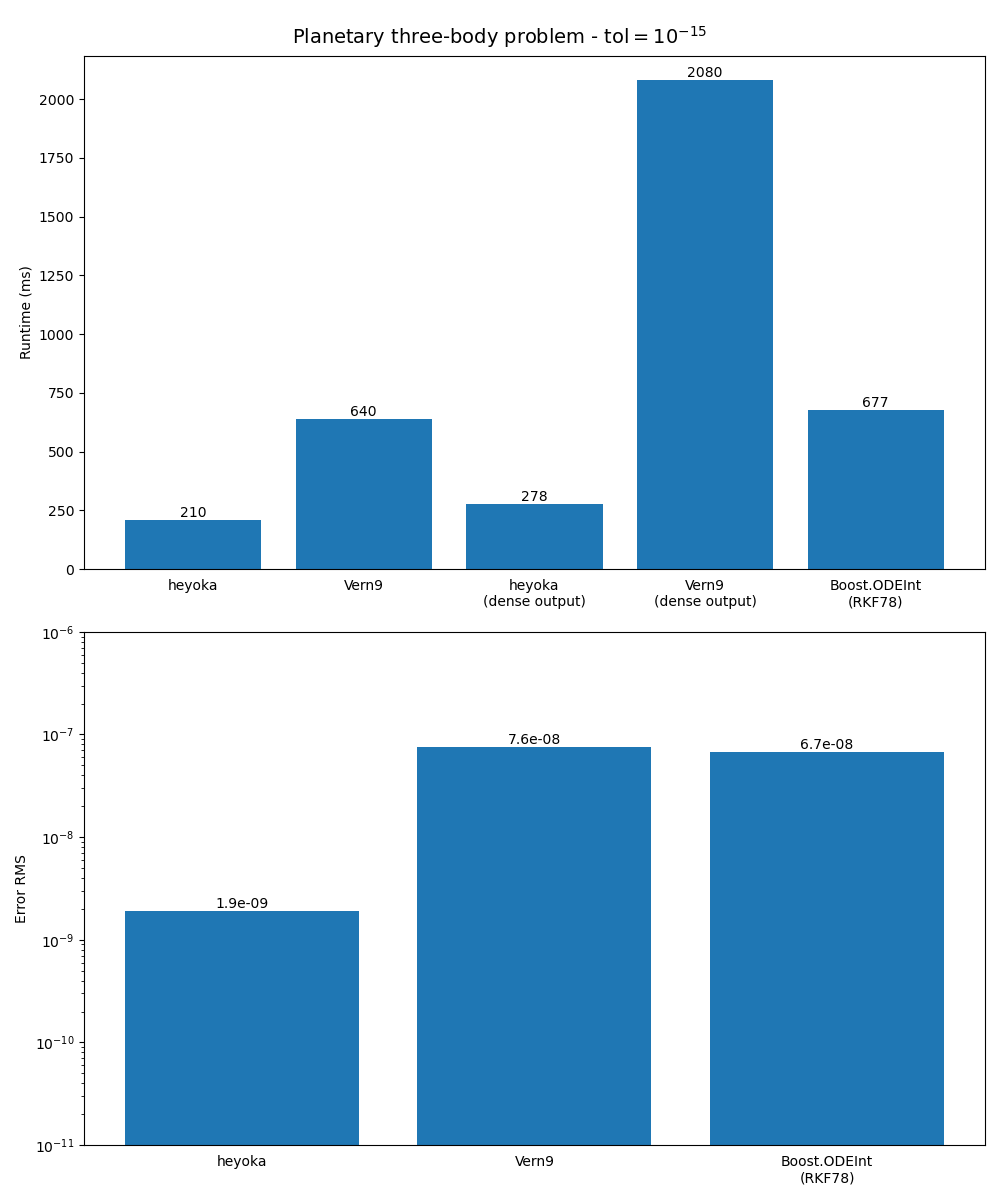
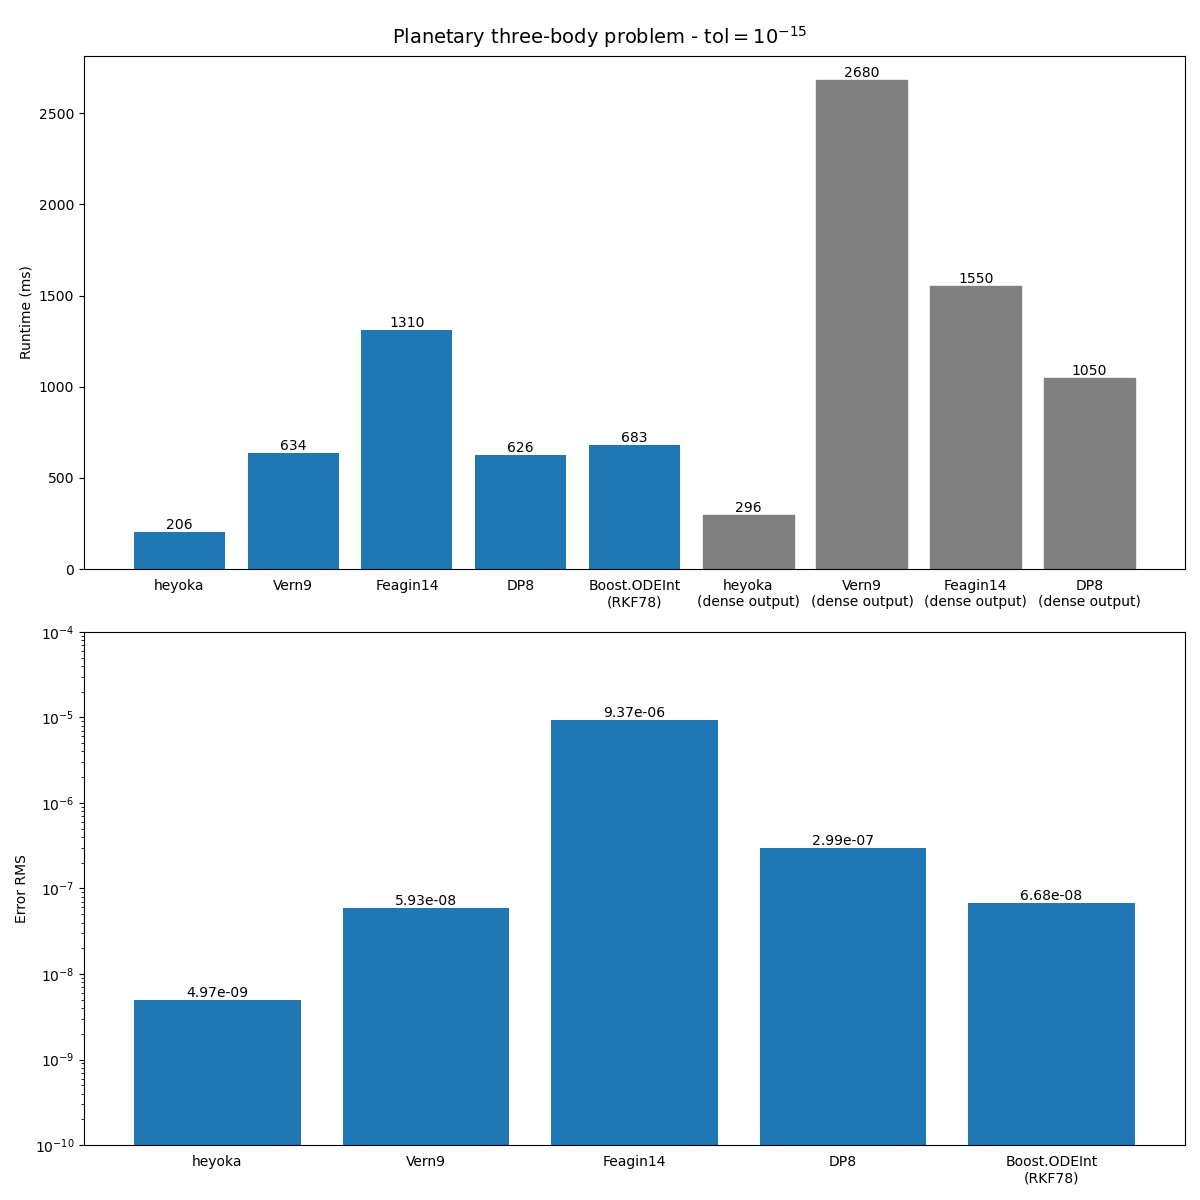
Updates to the benchmarks.

diff --git a/doc/benchmarks.rst b/doc/benchmarks.rst
@@ -8,7 +8,7 @@ ODE integration packages. Specifically, we compare heyoka to:
 
 - `DifferentialEquations.jl <https://diffeq.sciml.ai/>`__, a popular Julia
   library implementing several ODE solvers. In these benchmarks, we will be using
-  explicit Runge-Kutta solvers such as ``Vern9`` and ``DP8`` (see
+  explicit Runge-Kutta solvers such as ``Vern9``, ``Vern6``, ``Feagin14``, ``DP8``, etc. (see
   `here <https://diffeq.sciml.ai/stable/solvers/ode_solve/>`__ for a list of
   ODE solvers available in DifferentialEquations.jl);
 - `Boost.ODEInt <https://www.boost.org/doc/libs/master/libs/numeric/odeint/doc/html/index.html>`__,
@@ -17,9 +17,7 @@ ODE integration packages. Specifically, we compare heyoka to:
 - the ``IAS15`` integrator from `REBOUND <https://github.com/hannorein/rebound>`__,
   a popular N-body integration package. Like heyoka, ``IAS15`` is a high-precision
   non-symplectic integrator with adaptive timestepping capable of conserving the
-  dynamical invariants over billions of dynamical timescales. Note, however, that
-  ``IAS15`` is not a general-purpose integrator, and thus we will be able to use
-  it only in benchmarks involving gravitational N-body systems.
+  dynamical invariants over billions of dynamical timescales.
 
 Note that the integrators from DifferentialEquations.jl by default
 enable dense output, which however incurs in a heavy computational cost. While heyoka also supports
@@ -38,7 +36,7 @@ in which the three particles are the Sun, Jupiter and Saturn, all represented as
 attracting each other according to `Newtonian gravity <https://en.wikipedia.org/wiki/Newton%27s_law_of_universal_gravitation>`__.
 The initial conditions are taken from `this paper <https://ntrs.nasa.gov/citations/19860060859>`__, and the integration
 is run for a total of :math:`10^5` years.
-For ``Vern9`` and heyoka, the test is run both with and without :ref:`dense output <tut_d_output>`. When dense output is enabled,
+For the DifferentialEquations.jl integrators and heyoka, the test is run both with and without :ref:`dense output <tut_d_output>`. When dense output is enabled,
 the result of the integration over :math:`5 \times 10^5` equispaced time grid points is requested.
 
 In order to measure the accuracy of the integration, we will also compare the final state of the system
@@ -50,14 +48,12 @@ Let us see first the results for an error tolerance of :math:`10^{-15}`:
   :align: center
   :alt: 3BP benchmark 1e-15
 
-We can see how, without dense output, heyoka is about 3 times faster than ``Vern9``. When dense output is requested,
-heyoka's runtime increases by a modest :math:`\sim 24\%`, whereas for ``Vern9`` the runtime increases by a factor of
-:math:`\sim 3`, so that, with dense output, heyoka is about :math:`\sim 7` times faster than ``Vern9``. Performance-wise,
+We can see how, without dense output, heyoka is at least 3 times faster than any other tested integrator. When dense output is requested (gray bars),
+heyoka's runtime increases by :math:`\sim 50\%`, whereas for the other integrators the performance hit is substantially larger. Performance-wise,
 Boost.ODEint is comparable to ``Vern9`` (note that the RKF78 integrator from Boost.ODEInt does not support dense output).
 
-From the point of view of the integration accuracy, we can see how the RMS of the error across the components of the state
-vector with respect to the quadruple-precision integration is of the order of :math:`10^{-9}` for heyoka, while for both
-``Vern9`` and Boost.ODEInt the error is about :math:`\sim 35` times larger.
+From the point of view of the integration accuracy, we can see how heyoka has the lowest relative error (with respect to the quadruple-precision integration)
+among the tested integrators.
 
 Note that, even if the error tolerance for the integration is set to :math:`10^{-15}`, the error at the end of the integration
 is of the order of :math:`10^{-9}`. This is to be expected, as the error on the state variables accumulates as (at least)
@@ -69,11 +65,21 @@ Let us now see the results for an error tolerance of :math:`10^{-9}`:
   :align: center
   :alt: 3BP benchmark 1e-9
 
-Whereas heyoka is still faster than ``Vern9`` and Boost.ODEInt, at this higher integration tolerance the performance
+Whereas heyoka is still faster than the other integrators, at this higher integration tolerance the performance
 advantage is smaller.
 
-The integration accuracy of both heyoka and ``Vern9`` is of the order of :math:`10^{-3}`. By contrast,
-the accuracy of Boost.ODEInt is two orders of magnitude worse.
+The integration accuracy of both heyoka and ``Vern9`` is of the order of :math:`10^{-3}`. The other integrators feature
+a much worse accuracy.
+
+Finally, let us see the results for an error tolerance of :math:`10^{-6}`. In this test, we will replace ``Feagin14``
+with ``Vern6``, which is supposed to be more efficient at high tolerances:
+
+.. image:: images/ss_3bp_6.png
+  :align: center
+  :alt: 3BP benchmark 1e-6
+
+At low accuracy, heyoka performs similarly to ``DP8`` and ``RKF78`` without dense output. When dense output is requested,
+heyoka retains a substantial performance advantage.
 
 The outer Solar System
 ----------------------
